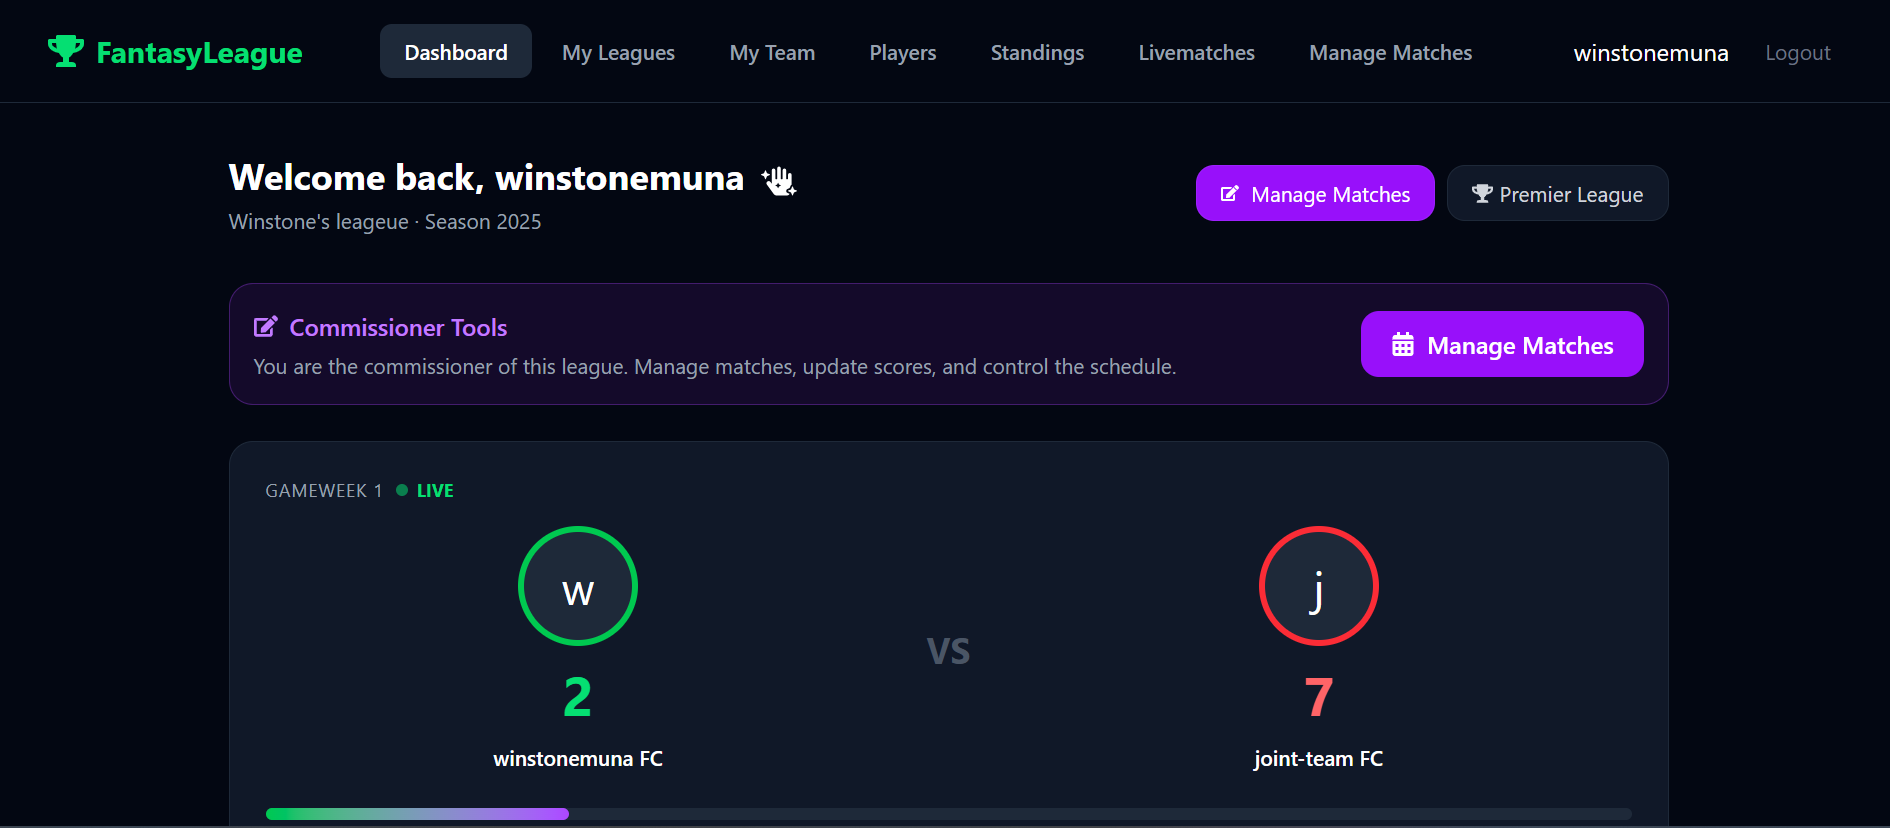
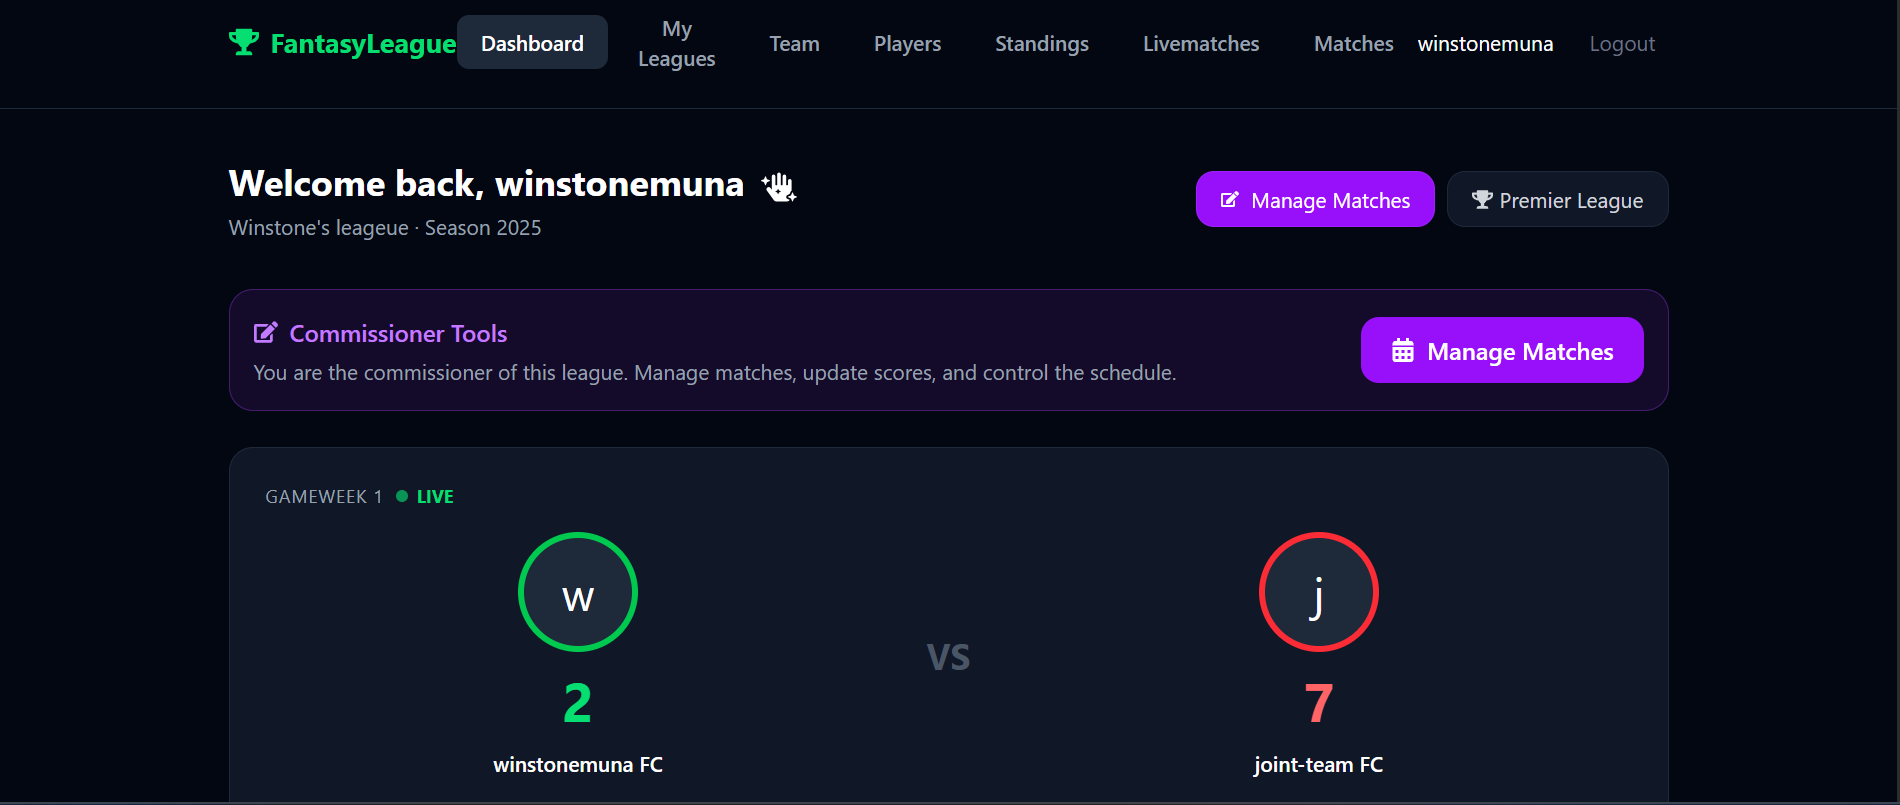
Update Screenshots

diff --git a/README.md b/README.md
@@ -122,16 +122,16 @@ npm run dev
 ![Dashboard](src/assets/Dashboard.png)
 
 ### Standings
-![Standings](./screenshots/standings.png)
+![Standings](src/assets/Standings.png)
 
 ### Live Matches
-![Live Matches](./screenshots/livematches.png)
+![Live Matches](src/assets/Livematches.png)
 
 ### Player Search
-![Player Search](./screenshots/search.png)
+![Player Search](src/assets/Search.png)
 
 ### User Profile
-![User Profile](./screenshots/profile.png)
+![User Profile](src/assets/userProfile.png.)
 
 ---
 